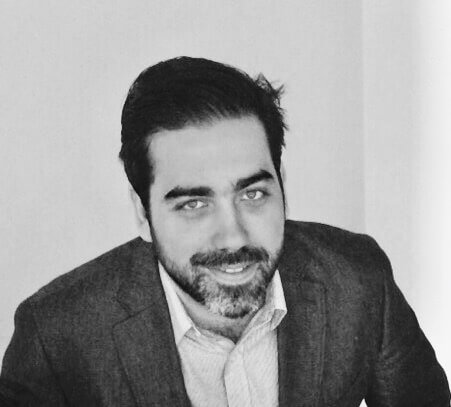
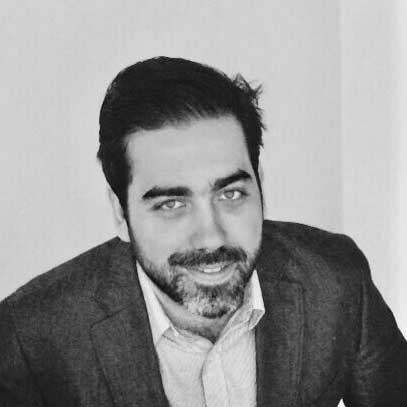
Testimonial Images Circle Shape FIX (#459)

diff --git a/src/components/enterprise/containers/testimonial/testimonial.scss b/src/components/enterprise/containers/testimonial/testimonial.scss
@@ -50,7 +50,6 @@
               height: 120px;
               left: 115px;
               bottom: 175px;
-              background-size: cover;
             }
           }
           &:nth-child(2) {
@@ -59,7 +58,6 @@
               height: 100px;
               top: 148px;
               left: 328px;
-              background-size: cover;
             }
           }
           &:nth-child(3) {
@@ -68,7 +66,6 @@
               height: 75px;
               bottom: 142px;
               left: 383px;
-              background-size: cover;
             }
           }
           &:nth-child(4) {
@@ -77,7 +74,6 @@
               height: 120px;
               right: 161px;
               top: 142px;
-              background-size: cover;
             }
           }
           &:nth-child(5) {
@@ -86,7 +82,6 @@
               height: 100px;
               bottom: 187px;
               right: 287px;
-              background-size: cover;
             }
           }
           &:nth-child(6) {
@@ -95,7 +90,6 @@
               height: 75px;
               bottom: 142px;
               right: 98px;
-              background-size: cover;
             }
           }
         }

diff --git a/src/components/Testimonial.js b/src/components/Testimonial.js
@@ -82,7 +82,6 @@ const StyledSlider = styled(Slider)`
         width: 100%;
         height: 100%;
         border-radius: 50%;
-        background-size: cover;
         img {
           border: 4px solid transparent;
           border-radius: 50%;

diff --git a/src/assets/css/index.css b/src/assets/css/index.css
@@ -661,7 +661,6 @@ hr {
     height: 160px;
     width: 160px;
     background-position: 10px -80px;
-    background-size: cover;
     background-repeat: no-repeat;
     background-color: #fff;
 }

diff --git a/src/pages/2019/assets/css/index.css b/src/pages/2019/assets/css/index.css
@@ -646,7 +646,6 @@ hr {
     height: 160px;
     width: 160px;
     background-position: 10px -80px;
-    background-size: cover;
     background-repeat: no-repeat;
     background-color: #fff;
 }
